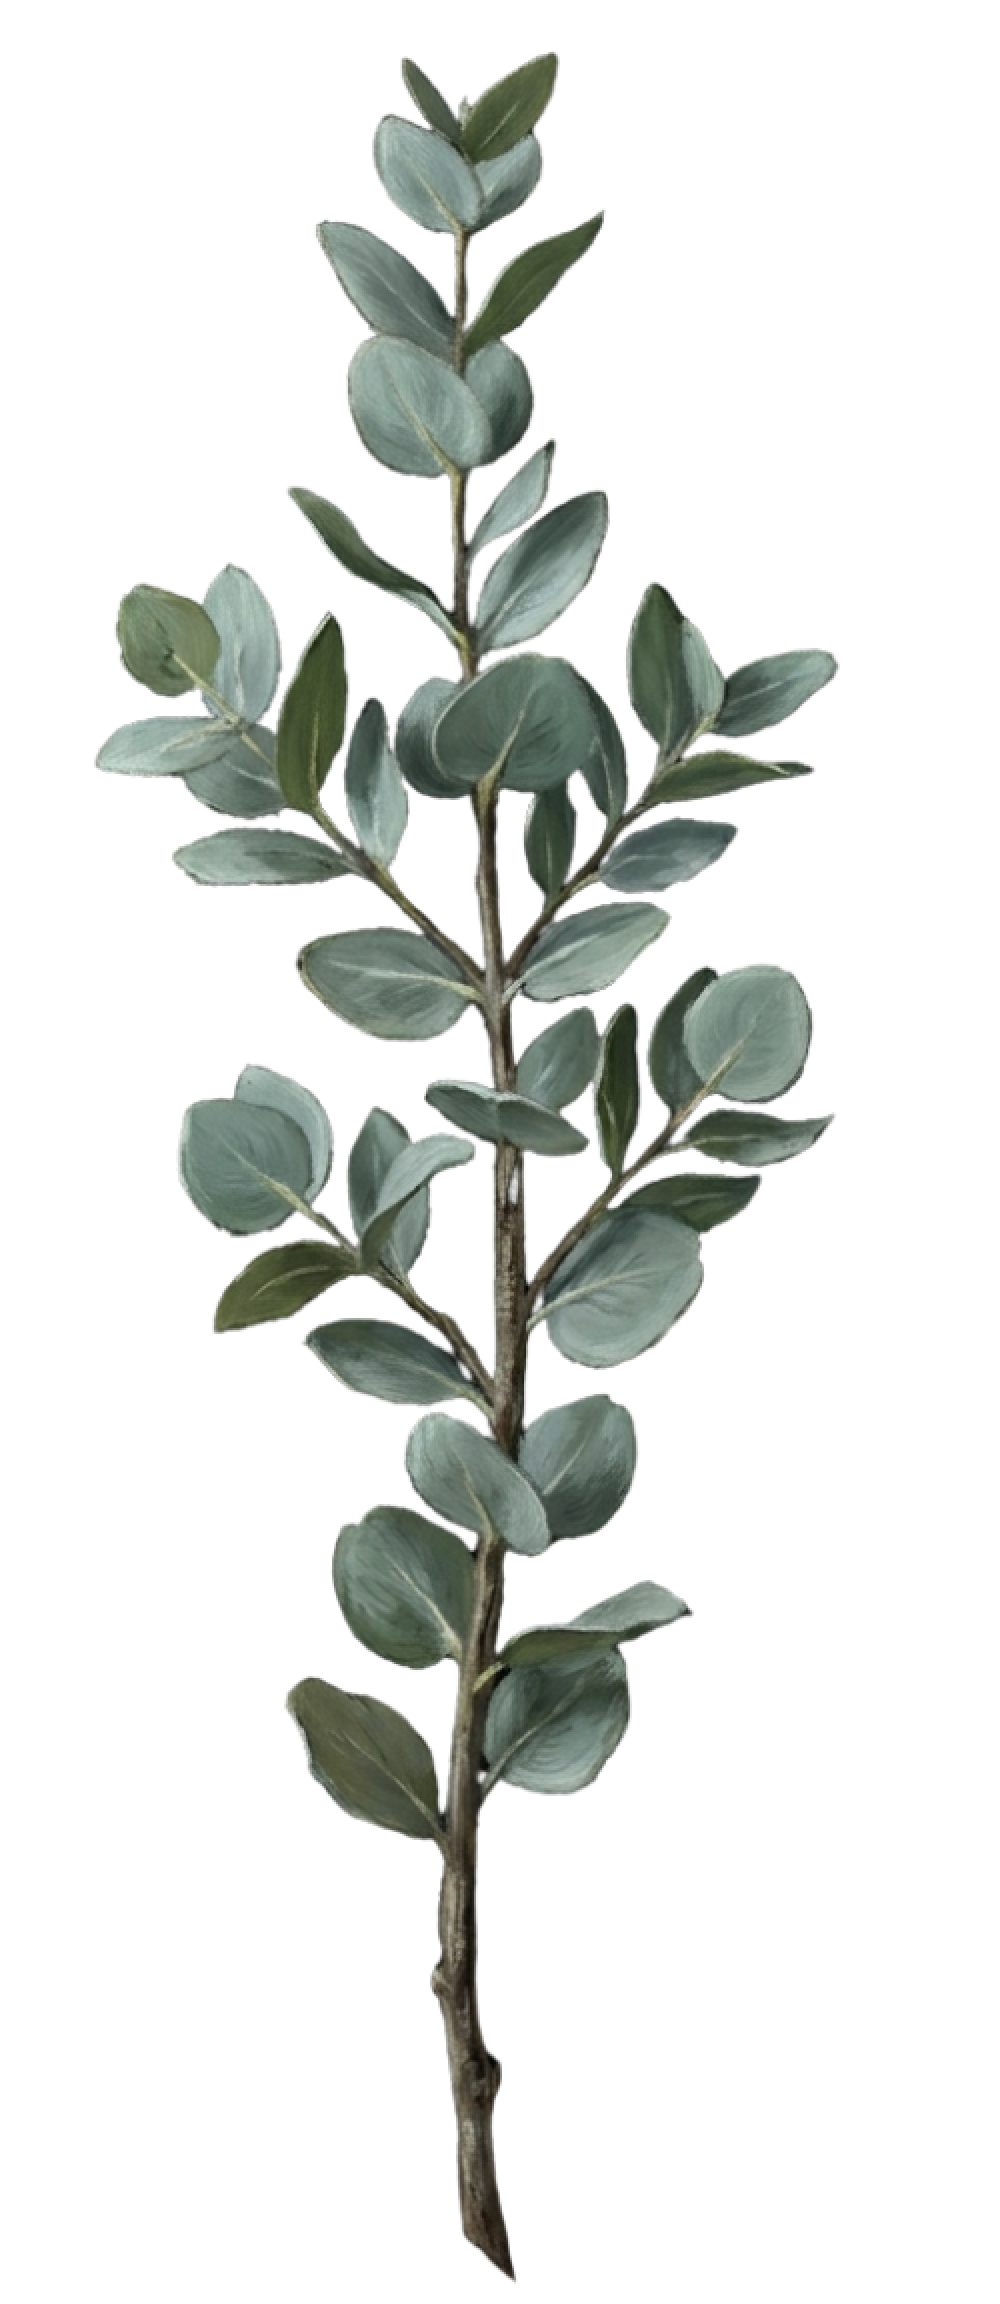
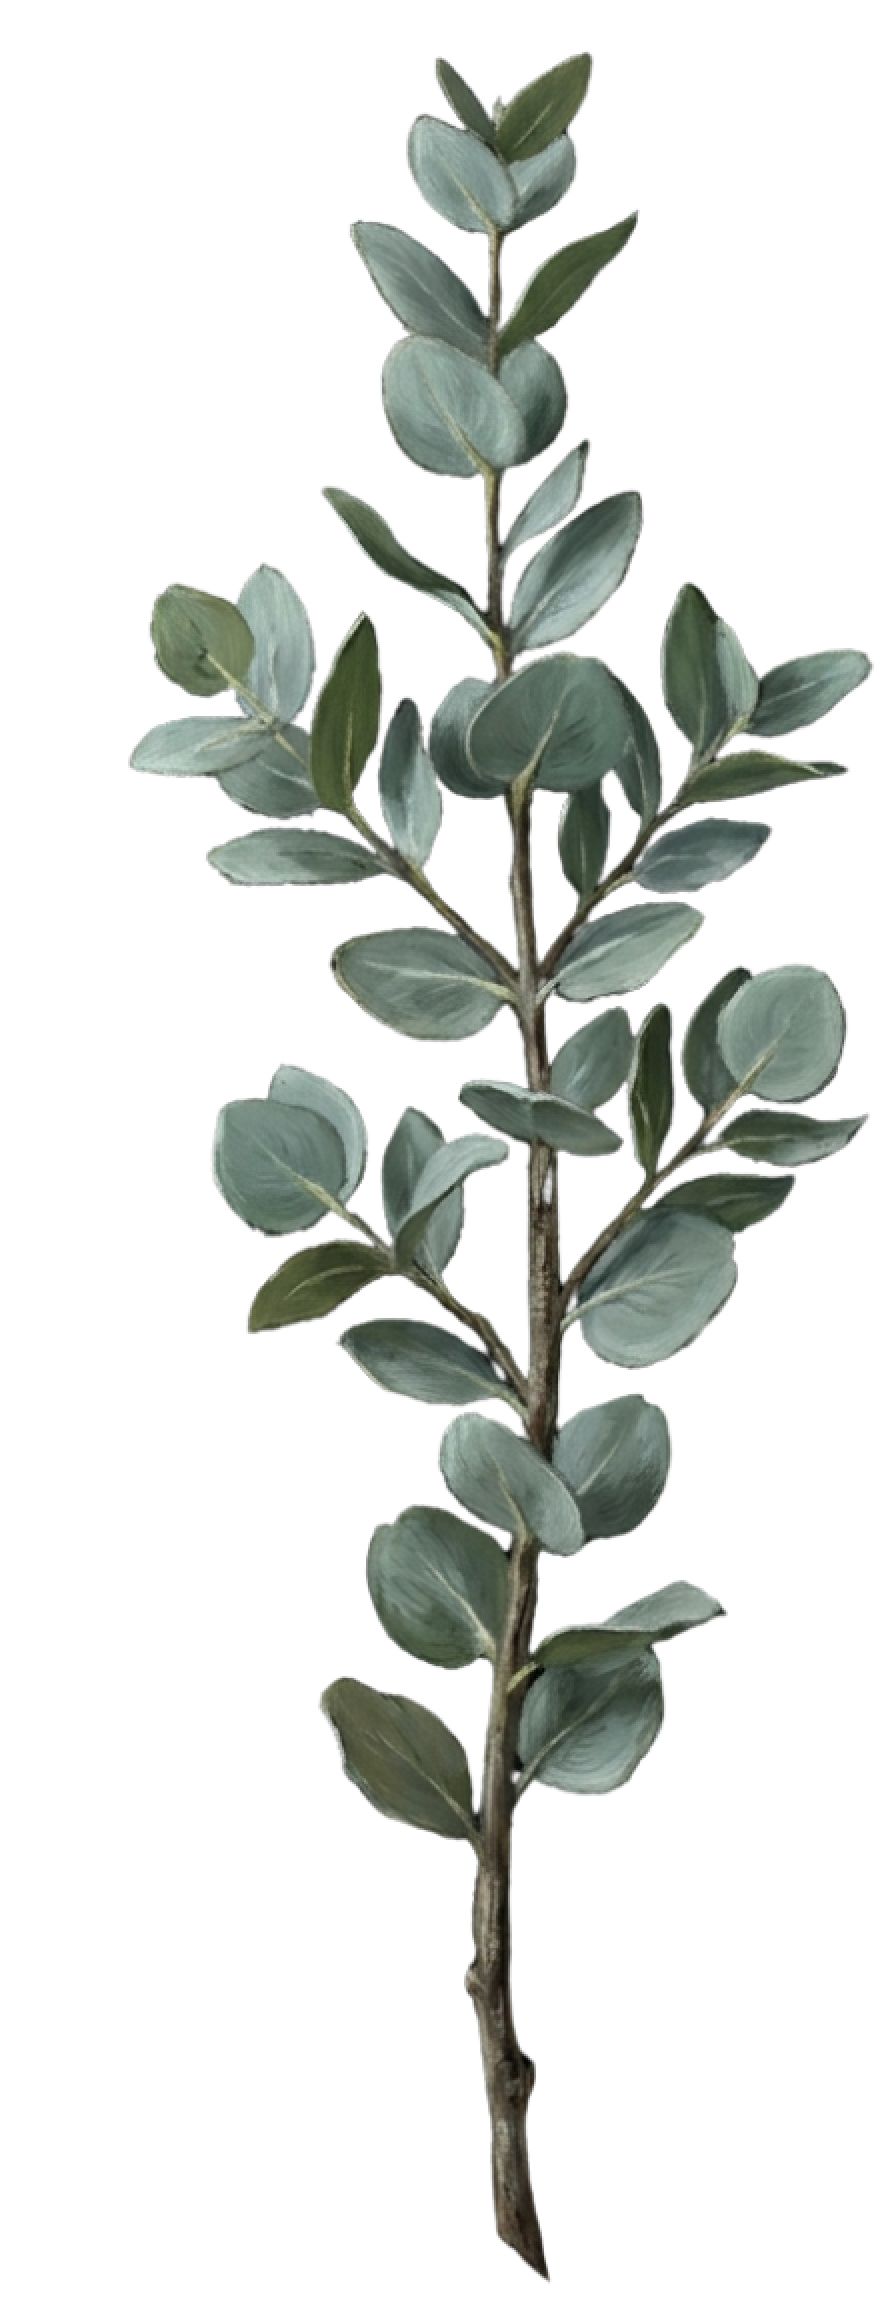
Add responsive wrapper scaling and update shared view
- Add native dimension data to pink bouquet wrapper entry for
  responsive scaling across different screen sizes
- Add computeResponsiveWrapper to bouquetConstraints for dynamic
  wrapper sizing based on viewport and reserved UI space
- Update shared bouquet view to use responsive wrapper computation
  and recompute on resize without re-fetching from API
- Scale flower image height proportionally with wrapper width
- Update eucalyptus greenery and pink bouquet front assets

diff --git a/app/b/[id]/page.tsx b/app/b/[id]/page.tsx
@@ -1,10 +1,10 @@
 "use client";
 
-import { useEffect, useState } from "react";
+import { useEffect, useRef, useState } from "react";
 import { useParams } from "next/navigation";
 import { WRAPPER_REGISTRY, SvgWrapper } from "@/components/wrappers";
 import type { WrapperType } from "@/components/wrappers/types";
-import { computeWrapperPosition, getViewportZone } from "@/components/bouquetConstraints";
+import { computeResponsiveWrapper, getViewportZone } from "@/components/bouquetConstraints";
 import { denormalizeFlowers } from "@/lib/bouquetData";
 import type { NormalizedFlower, Flower } from "@/lib/bouquetData";
 
@@ -14,6 +14,13 @@ export default function SharedBouquetPage() {
   const [wrapperType, setWrapperType] = useState<WrapperType>("paper-wrap");
   const [loading, setLoading] = useState(true);
   const [error, setError] = useState<string | null>(null);
+
+  // Shared view reserves: no top bar, ~70px for "Make your own" button at bottom
+  const RESERVE_TOP = 16;
+  const RESERVE_BOTTOM = 70;
+
+  // Store normalized flowers for resize recomputation
+  const normalizedRef = useRef<NormalizedFlower[]>([]);
 
   useEffect(() => {
     if (!id) return;
@@ -33,15 +40,18 @@ export default function SharedBouquetPage() {
         const wt = data.wrapper_type as WrapperType;
         setWrapperType(wt);
 
-        const { zone } = WRAPPER_REGISTRY[wt];
-        const wrapperPos = computeWrapperPosition(
+        normalizedRef.current = data.flowers as NormalizedFlower[];
+
+        const entry = WRAPPER_REGISTRY[wt];
+        const result = computeResponsiveWrapper(
+          entry,
           window.innerWidth,
           window.innerHeight,
-          zone.width,
-          zone.height,
+          RESERVE_TOP,
+          RESERVE_BOTTOM,
         );
-        const compositionZoneVP = getViewportZone(zone.compositionZone, wrapperPos);
-        const loaded = denormalizeFlowers(data.flowers as NormalizedFlower[], compositionZoneVP);
+        const compositionZoneVP = getViewportZone(result.zone.compositionZone, result.wrapperPos);
+        const loaded = denormalizeFlowers(normalizedRef.current, compositionZoneVP);
         setFlowers(loaded);
       } catch {
         if (!cancelled) setError("Bouquet not found");
@@ -56,30 +66,24 @@ export default function SharedBouquetPage() {
 
   // Recompute flower positions on resize
   useEffect(() => {
-    if (flowers.length === 0) return;
+    if (normalizedRef.current.length === 0) return;
 
     const handleResize = () => {
-      // Re-fetch to recompute positions for new viewport
-      fetch(`/api/bouquets/${id}`)
-        .then((res) => res.json())
-        .then((data) => {
-          const wt = data.wrapper_type as WrapperType;
-          const { zone } = WRAPPER_REGISTRY[wt];
-          const wrapperPos = computeWrapperPosition(
-            window.innerWidth,
-            window.innerHeight,
-            zone.width,
-            zone.height,
-          );
-          const compositionZoneVP = getViewportZone(zone.compositionZone, wrapperPos);
-          setFlowers(denormalizeFlowers(data.flowers as NormalizedFlower[], compositionZoneVP));
-        })
-        .catch(() => {});
+      const entry = WRAPPER_REGISTRY[wrapperType];
+      const result = computeResponsiveWrapper(
+        entry,
+        window.innerWidth,
+        window.innerHeight,
+        RESERVE_TOP,
+        RESERVE_BOTTOM,
+      );
+      const compositionZoneVP = getViewportZone(result.zone.compositionZone, result.wrapperPos);
+      setFlowers(denormalizeFlowers(normalizedRef.current, compositionZoneVP));
     };
 
     window.addEventListener("resize", handleResize);
     return () => window.removeEventListener("resize", handleResize);
-  }, [id, flowers.length]);
+  }, [wrapperType]);
 
   if (loading) {
     return (
@@ -131,13 +135,20 @@ export default function SharedBouquetPage() {
     );
   }
 
-  const { zone, assets } = WRAPPER_REGISTRY[wrapperType];
-  const wrapperPos = computeWrapperPosition(
+  const entry = WRAPPER_REGISTRY[wrapperType];
+  const responsive = computeResponsiveWrapper(
+    entry,
     typeof window !== "undefined" ? window.innerWidth : 0,
     typeof window !== "undefined" ? window.innerHeight : 0,
-    zone.width,
-    zone.height,
+    RESERVE_TOP,
+    RESERVE_BOTTOM,
   );
+  const { zone, assets } = responsive;
+  const wrapperPos = responsive.wrapperPos;
+
+  // Flower image height scales proportionally with wrapper width
+  const FLOWER_HEIGHT_RATIO = 250 / 384;
+  const flowerImageHeight = Math.round(zone.width * FLOWER_HEIGHT_RATIO);
 
   return (
     <div style={{ position: "fixed", inset: 0, overflow: "hidden" }}>
@@ -173,7 +184,7 @@ export default function SharedBouquetPage() {
               src={flower.type}
               alt=""
               draggable={false}
-              style={{ height: 250, width: "auto" }}
+              style={{ height: flowerImageHeight, width: "auto" }}
             />
           ) : (
             flower.type

diff --git a/components/bouquetConstraints.ts b/components/bouquetConstraints.ts
@@ -1,4 +1,5 @@
-import type { Rect, Point, BouquetZoneConfig } from "./wrappers/types";
+import type { Rect, Point, BouquetZoneConfig, WrapperAssets } from "./wrappers/types";
+import type { WrapperEntry } from "./wrappers";
 
 /** Convert a wrapper-relative rect to viewport coordinates */
 export function getViewportZone(zone: Rect, wrapperPos: Point): Rect {
@@ -95,4 +96,78 @@ export function computeWrapperPosition(
     x: (vpWidth - wrapperW) / 2,
     y: (vpHeight - wrapperH) / 2,
   };
+}
+
+export interface ResponsiveWrapperResult {
+  zone: BouquetZoneConfig;
+  assets: WrapperAssets;
+  wrapperPos: Point;
+}
+
+/**
+ * Compute wrapper dimensions responsively for entries with `native` data.
+ * Falls back to static dimensions + viewport centering for legacy wrappers.
+ */
+export function computeResponsiveWrapper(
+  entry: WrapperEntry,
+  vpWidth: number,
+  vpHeight: number,
+  reserveTop: number,
+  reserveBottom: number,
+): ResponsiveWrapperResult {
+  const nat = entry.native;
+  if (!nat) {
+    // Legacy wrapper: use pre-computed static dimensions, center in full viewport
+    const pos = computeWrapperPosition(vpWidth, vpHeight, entry.zone.width, entry.zone.height);
+    return { zone: entry.zone, assets: entry.assets, wrapperPos: pos };
+  }
+
+  const availW = vpWidth;
+  const availH = vpHeight - reserveTop - reserveBottom;
+  // Total native height depends on layout type
+  const nativeTotalH = nat.aligned
+    ? Math.max(nat.backHeight, nat.frontHeight)
+    : (() => {
+        const frontY = Math.round(nat.backHeight * 0.5);
+        return Math.max(nat.backHeight, frontY + nat.frontHeight);
+      })();
+
+  const scale = Math.min(availW / nat.width, availH / nativeTotalH);
+
+  const w = Math.round(nat.width * scale);
+  const backH = Math.round(nat.backHeight * scale);
+  const frontH = Math.round(nat.frontHeight * scale);
+
+  let frontY: number;
+  let totalH: number;
+  if (nat.aligned) {
+    frontY = 0;
+    totalH = Math.max(backH, frontH);
+  } else {
+    frontY = Math.round(backH * 0.5);
+    totalH = Math.max(backH, frontY + frontH);
+  }
+
+  const compH = Math.round(backH * nat.compositionHeightRatio);
+
+  const zone: BouquetZoneConfig = {
+    width: w,
+    height: totalH,
+    compositionZone: { x: 0, y: 0, width: w, height: compH },
+    handleZone: { x: 0, y: compH, width: w, height: totalH - compH },
+    anchorPoint: { x: w / 2, y: Math.round(compH * nat.anchorYRatio) },
+  };
+
+  const assets: WrapperAssets = {
+    back: { src: nat.backSrc, x: 0, y: 0, width: w, height: backH },
+    front: { src: nat.frontSrc, x: 0, y: frontY, width: w, height: frontH },
+  };
+
+  // Center in available space (between reserveTop and vpHeight - reserveBottom)
+  const wrapperPos: Point = {
+    x: (vpWidth - w) / 2,
+    y: reserveTop + (availH - totalH) / 2,
+  };
+
+  return { zone, assets, wrapperPos };
 }

diff --git a/components/wrappers/index.ts b/components/wrappers/index.ts
@@ -1,10 +1,23 @@
 import type { BouquetZoneConfig, WrapperAssets, WrapperType } from "./types";
 
+export interface WrapperNative {
+  width: number;
+  backHeight: number;
+  frontHeight: number;
+  compositionHeightRatio: number;
+  anchorYRatio: number;
+  /** true when back & front layers both start at y=0 (no overlap offset) */
+  aligned?: boolean;
+  backSrc: string;
+  frontSrc: string;
+}
+
 export interface WrapperEntry {
   assets: WrapperAssets;
   zone: BouquetZoneConfig;
   label: string;
   icon: string;
+  native?: WrapperNative;
 }
 
 // ---------------------------------------------------------------------------
@@ -139,6 +152,16 @@ export const WRAPPER_REGISTRY: Record<WrapperType, WrapperEntry> = {
     ...pinkBouquet,
     label: "Pink",
     icon: "🌷",
+    native: {
+      width: 1920,
+      backHeight: 1639,
+      frontHeight: 2762,
+      compositionHeightRatio: 0.6,
+      anchorYRatio: 0.45,
+      aligned: true,
+      backSrc: "/wrappers/pink bouquet 1/back.png",
+      frontSrc: "/wrappers/pink bouquet 1/front.png",
+    },
   },
 };
 
